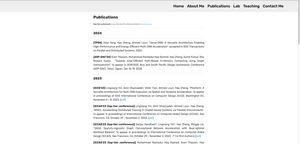
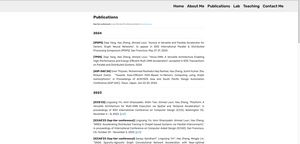
v3.25

Changed region(s): [[0.3, 0.3889, 0.69, 1.0], [0.3, 0.2778, 0.69, 0.3611], [0.99, 0.2778, 1.0, 0.3056]]

diff --git a/Publications.html b/Publications.html
@@ -68,7 +68,7 @@
     </nav>
 </section>
 
-<section class="engine"><a href="https://mobirise.info/a">online website builder</a></section><section class="mbr-section article content1 cid-tPkisNBqHZ" id="content1-23">
+<section class="engine"><a href="https://mobirise.info">Mobirise</a></section><section class="mbr-section article content1 cid-tPkisNBqHZ" id="content1-23">
     
      
 
@@ -76,8 +76,8 @@
         <div class="media-container-row">
             <div class="mbr-text col-12 mbr-fonts-style display-7 col-md-8" style="text-align: justify;">
                 <p style="font-size:25px"><strong>Publications</strong></p><p style="font-size:10px"><strong>(top-tier conference)&nbsp;</strong>is one of the top CS conferences listed on<a href="https://csrankings.org/">&nbsp;csrankings.org</a></p> <hr>
-                <p><strong>2024</strong></p> <hr> <p><strong>[TPDS]</strong><span style="font-size: 1rem;">&nbsp;Jiaqi Yang, Hao Zheng, Ahmed Louri, "Versa-DNN: A Versatile Architecture Enabling High-Performance and Energy-Efficient Multi-DNN Acceleration", accepted in IEEE Transactions on Parallel and Distributed Systems, 2024.</span></p><p><strong>[ASP-DAC'24]</strong>&nbsp;Sven Thijssen, Muhammad Rashedul Haq Rashed, Hao Zheng, Sumit Kumar Jha, Rickard Ewetz, &nbsp;"<span style="font-size: 1rem;">Towards Area-Efficient Path-Based In-Memory Computing using Graph Isomorphisms", to appear in ACM/IEEE Asia and South Pacific Design Automation Conference (ASP-DAC), Tokyo, Japan, Jan 16-19, 2024.&nbsp;</span></p>
-               <hr> <p><strong>2023</strong></p> <hr> <p><strong>[ICCD'23] </strong><span style="font-size: 1rem;">Lingxiang Yin, Amir Ghazizadeh, Shilin Tian, Ahmed Louri, Hao Zheng, "Polyform: A Versatile Architecture for Multi-DNN Execution via Spatial and Temporal Acceleration", to appear in proceedings of IEEE International Conference on Computer Design (ICCD), Washington DC, November 6 – 8, 2023. [<a href="assets/files/ICCD_Ployform.pdf">pdf</a>]</span></p><p><strong>[ICCAD'23 (top-tier conference)] </strong><span style="font-size: 1rem;">Lingxiang Yin, Amir Ghazizadeh, Ahmed Louri, Hao Zheng, "ARIES: Accelerating Distributed Training in Chiplet-based Systems via Flexible Interconnects", to appear in proceedings of International Conference on Computer-Aided Design (ICCAD), San Francisco, CA, October 29 - November 2, 2023. [<a href="assets/files/ICCAD_ARIES.pdf">pdf</a>]</span></p><p><strong>[ICCAD'23 (top-tier conference)]&nbsp;</strong><span style="font-size: 1rem;">Sanjay Gandham*, Lingxiang Yin*, Hao Zheng, Mingjie Lin, ''SAGA: Sparsity-Agnostic Graph Convolutional Network Acceleration with Near-optimal Workload Balance", to appear in proceedings of International Conference on Computer-Aided Design (ICCAD), San Francisco, CA, October 29 - November 2, 2023. &nbsp;(* Co-first Authors) [<a href="assets/files/ICCAD_SAGA.pdf">pdf</a>]</span></p><p><strong>[ICCAD'23 (top-tier conference)] </strong><span style="font-size: 1rem;">Muhammad Rashedul Haq Rashed, Sven Thijssen, Hao Zheng, Sumit Kumar Jha,&nbsp;</span><span style="font-size: 1rem;">Rickard Ewetz, ''Path-based Processing using In-Memory Systolic Arrays for Accelerating Data-Intensive Applications", to appear in proceedings of International Conference on Computer-Aided Design (ICCAD), San Francisco, CA, October 29 - November 2, 2023.&nbsp;</span></p><p><strong>[DAC'23 (top-tier conference)] </strong><span style="font-size: 1rem;">Jiaqi Yang,</span><strong>&nbsp;</strong><span style="font-size: 1rem;">Hao Zheng, and Ahmed Louri, “Venus: A Versatile Deep Neural Network Accelerator Architecture Design for Multiple Applications,” in Proceedings of 60th Design Automation Conference (DAC’23), San Francisco, July 9-13, 2023.</span><br></p><p><span style="font-size: 1rem;"><strong>[ISCA'23 (top-tier conference)]</strong> Jiajun Li, Yuxuan Zhang, Hao Zheng, and Ke Wang, “ FDMAX: An Elastic Accelerator Architecture for Solving Partial Differential Equations,” &nbsp;in Proceedings of 50th International Symposium on Computer Architecture (ISCA'50), Orlando, FL, June 17–21, 2023.</span></p><p><span style="font-size: 1rem;"><strong>[GLSVLSI'23]</strong> Lingxiang Yin, Jun Wang, and Hao Zheng, “Exploring Architecture, Dataflow, and Sparsity for GCN Accelerators: A Holistic Framework,” to appear in Proceedings of 33rd ACM Great Lakes Symposium on VLSI (GLSVLSI), June 5-7, 2023.</span></p><p><span style="font-size: 1rem;"><strong>[FCCM'23]</strong> Sanjay Gandham, Lingxiang Yin, Hao Zheng, and Mingjie Lin, “Poster: OCMGen: Extended Design Space Exploration with Efficient FPGA Memory Inference,” &nbsp;in Proceedings of 31st IEEE International Symposium On Field-Programmable Custom Computing Machines (FCCM), Marina Del Rey, CA, May 8-11, 2023.</span></p><p><strong>[TSUSC]</strong> Ke Wang, Hao Zheng, Jiajun Li, Ahmed Louri, "Morph-GCNX: A Universal Architecture for High-performance and Energy-efficient Graph Convolutional Network Acceleration", Accepted for Publication, IEEE Transactions on Sustainable Computing, 2023.&nbsp;</p><p><span style="font-size: 1rem;"><strong>[JCST] </strong>Jiajun Li, Ke Wang, Hao Zheng, and Ahmed Louri, "GShuttle: Optimizing Memory Access Efficiency for Graph Convolutional Neural Network Accelerators," &nbsp;in Journal of Computer Science and Technology, Feb. 2023.</span></p>
+                <p><strong>2024</strong></p> <hr> <p><strong>[IPDPS] </strong><span style="font-size: 1rem;">Jiaqi Yang, Hao Zheng, Ahmed Louri, "Aurora: A Versatile and Flexible Accelerator for Generic Graph Neural Networks", to appear in IEEE International Parallel &amp;&nbsp;</span><span style="font-size: 1rem;">Distributed Processing Symposium (IPDPS), San Francisco, May 27-31, 2024.</span></p><p><strong>[TPDS]</strong><span style="font-size: 1rem;">&nbsp;Jiaqi Yang, Hao Zheng, Ahmed Louri, "Versa-DNN: A Versatile Architecture Enabling High-Performance and Energy-Efficient Multi-DNN Acceleration", accepted in IEEE Transactions on Parallel and Distributed Systems, 2024.</span></p><p><strong>[ASP-DAC'24]</strong>&nbsp;Sven Thijssen, Muhammad Rashedul Haq Rashed, Hao Zheng, Sumit Kumar Jha, Rickard Ewetz, &nbsp;"<span style="font-size: 1rem;">Towards Area-Efficient Path-Based In-Memory Computing using Graph Isomorphisms", in Proceedings of ACM/IEEE Asia and South Pacific Design Automation Conference (ASP-DAC), Tokyo, Japan, Jan 22-25, 2024.&nbsp;</span></p>
+               <hr> <p><strong>2023</strong></p> <hr> <p><strong>[ICCD'23] </strong><span style="font-size: 1rem;">Lingxiang Yin, Amir Ghazizadeh, Shilin Tian, Ahmed Louri, Hao Zheng, "Polyform: A Versatile Architecture for Multi-DNN Execution via Spatial and Temporal Acceleration", in proceedings of IEEE International Conference on Computer Design (ICCD), Washington DC, November 6 – 8, 2023. [<a href="assets/files/ICCD_Ployform.pdf">pdf</a>]</span></p><p><strong>[ICCAD'23 (top-tier conference)] </strong><span style="font-size: 1rem;">Lingxiang Yin, Amir Ghazizadeh, Ahmed Louri, Hao Zheng, "ARIES: Accelerating Distributed Training in Chiplet-based Systems via Flexible Interconnects", in proceedings of International Conference on Computer-Aided Design (ICCAD), San Francisco, CA, October 29 - November 2, 2023. [<a href="assets/files/ICCAD_ARIES.pdf">pdf</a>]</span></p><p><strong>[ICCAD'23 (top-tier conference)]&nbsp;</strong><span style="font-size: 1rem;">Sanjay Gandham*, Lingxiang Yin*, Hao Zheng, Mingjie Lin, ''SAGA: Sparsity-Agnostic Graph Convolutional Network Acceleration with Near-optimal Workload Balance", in proceedings of International Conference on Computer-Aided Design (ICCAD), San Francisco, CA, October 29 - November 2, 2023. &nbsp;(* Co-first Authors) [<a href="assets/files/ICCAD_SAGA.pdf">pdf</a>]</span></p><p><strong>[ICCAD'23 (top-tier conference)] </strong><span style="font-size: 1rem;">Muhammad Rashedul Haq Rashed, Sven Thijssen, Hao Zheng, Sumit Kumar Jha,&nbsp;</span><span style="font-size: 1rem;">Rickard Ewetz, ''Path-based Processing using In-Memory Systolic Arrays for Accelerating Data-Intensive Applications", in proceedings of International Conference on Computer-Aided Design (ICCAD), San Francisco, CA, October 29 - November 2, 2023.&nbsp;</span></p><p><strong>[DAC'23 (top-tier conference)] </strong><span style="font-size: 1rem;">Jiaqi Yang,</span><strong>&nbsp;</strong><span style="font-size: 1rem;">Hao Zheng, and Ahmed Louri, “Venus: A Versatile Deep Neural Network Accelerator Architecture Design for Multiple Applications,” in Proceedings of 60th Design Automation Conference (DAC’23), San Francisco, July 9-13, 2023.</span><br></p><p><span style="font-size: 1rem;"><strong>[ISCA'23 (top-tier conference)]</strong> Jiajun Li, Yuxuan Zhang, Hao Zheng, and Ke Wang, “ FDMAX: An Elastic Accelerator Architecture for Solving Partial Differential Equations,” &nbsp;in Proceedings of 50th International Symposium on Computer Architecture (ISCA'50), Orlando, FL, June 17–21, 2023.</span></p><p><span style="font-size: 1rem;"><strong>[GLSVLSI'23]</strong> Lingxiang Yin, Jun Wang, and Hao Zheng, “Exploring Architecture, Dataflow, and Sparsity for GCN Accelerators: A Holistic Framework,” to appear in Proceedings of 33rd ACM Great Lakes Symposium on VLSI (GLSVLSI), June 5-7, 2023.</span></p><p><span style="font-size: 1rem;"><strong>[FCCM'23]</strong> Sanjay Gandham, Lingxiang Yin, Hao Zheng, and Mingjie Lin, “Poster: OCMGen: Extended Design Space Exploration with Efficient FPGA Memory Inference,” &nbsp;in Proceedings of 31st IEEE International Symposium On Field-Programmable Custom Computing Machines (FCCM), Marina Del Rey, CA, May 8-11, 2023.</span></p><p><strong>[TSUSC]</strong> Ke Wang, Hao Zheng, Jiajun Li, Ahmed Louri, "Morph-GCNX: A Universal Architecture for High-performance and Energy-efficient Graph Convolutional Network Acceleration", Accepted for Publication, IEEE Transactions on Sustainable Computing, 2023.&nbsp;</p><p><span style="font-size: 1rem;"><strong>[JCST] </strong>Jiajun Li, Ke Wang, Hao Zheng, and Ahmed Louri, "GShuttle: Optimizing Memory Access Efficiency for Graph Convolutional Neural Network Accelerators," &nbsp;in Journal of Computer Science and Technology, Feb. 2023.</span></p>
                 
                 <hr><p><strong>2022</strong></p> <hr>
                 

diff --git a/index.html b/index.html
@@ -68,7 +68,7 @@
     </nav>
 </section>
 
-<section class="engine"><a href="https://mobirise.info/m">site design templates</a></section><section class="carousel slide testimonials-slider cid-sGDIEH06Dl" data-interval="false" id="testimonials-slider1-1c">
+<section class="engine"><a href="https://mobirise.info/x">css templates</a></section><section class="carousel slide testimonials-slider cid-sGDIEH06Dl" data-interval="false" id="testimonials-slider1-1c">
     
     
 
@@ -203,7 +203,7 @@
                 </div>
                 <div data-form-type="formoid">
                     <!---Formbuilder Form--->
[2 lines of base64/hex data omitted]
                         <div class="row">
                             <div hidden="hidden" data-form-alert="" class="alert alert-success col-12">Thanks for filling out the form!</div>
                             <div hidden="hidden" data-form-alert-danger="" class="alert alert-danger col-12">

diff --git a/research.html b/research.html
@@ -69,7 +69,7 @@
 </section>
 
 
-  <section class="engine"><a href="https://mobirise.info/t">free amp template</a></section><script src="assets/web/assets/jquery/jquery.min.js"></script>
+  <section class="engine"><a href="https://mobirise.info/a">online site builder</a></section><script src="assets/web/assets/jquery/jquery.min.js"></script>
   <script src="assets/popper/popper.min.js"></script>
   <script src="assets/bootstrap/js/bootstrap.min.js"></script>
   <script src="assets/tether/tether.min.js"></script>

diff --git a/teaching.html b/teaching.html
@@ -68,7 +68,7 @@
     </nav>
 </section>
 
-<section class="engine"><a href="https://mobirise.info/n">simple web templates</a></section><section class="mbr-section article content11 cid-sHOBrJm4db" id="content11-1g">
+<section class="engine"><a href="https://mobirise.info/p">website templates free download</a></section><section class="mbr-section article content11 cid-sHOBrJm4db" id="content11-1g">
      
 
     <div class="container">

diff --git a/personal.html b/personal.html
@@ -69,7 +69,7 @@
     </nav>
 </section>
 
-<section class="engine"><a href="https://mobirise.info/v">html templates</a></section><section class="mbr-section content4 cid-rjvCNc9mDV" id="content4-o">
+<section class="engine"><a href="https://mobirise.info/o">free portfolio site templates</a></section><section class="mbr-section content4 cid-rjvCNc9mDV" id="content4-o">
 
     
 

diff --git a/lab.html b/lab.html
@@ -68,7 +68,7 @@
     </nav>
 </section>
 
-<section class="engine"><a href="https://mobirise.info/t">amp templates</a></section><section class="mbr-section content4 cid-sHOHvPQL5j" id="content4-1i">
+<section class="engine"><a href="https://mobirise.info/z">best website templates</a></section><section class="mbr-section content4 cid-sHOHvPQL5j" id="content4-1i">
 
     
 
